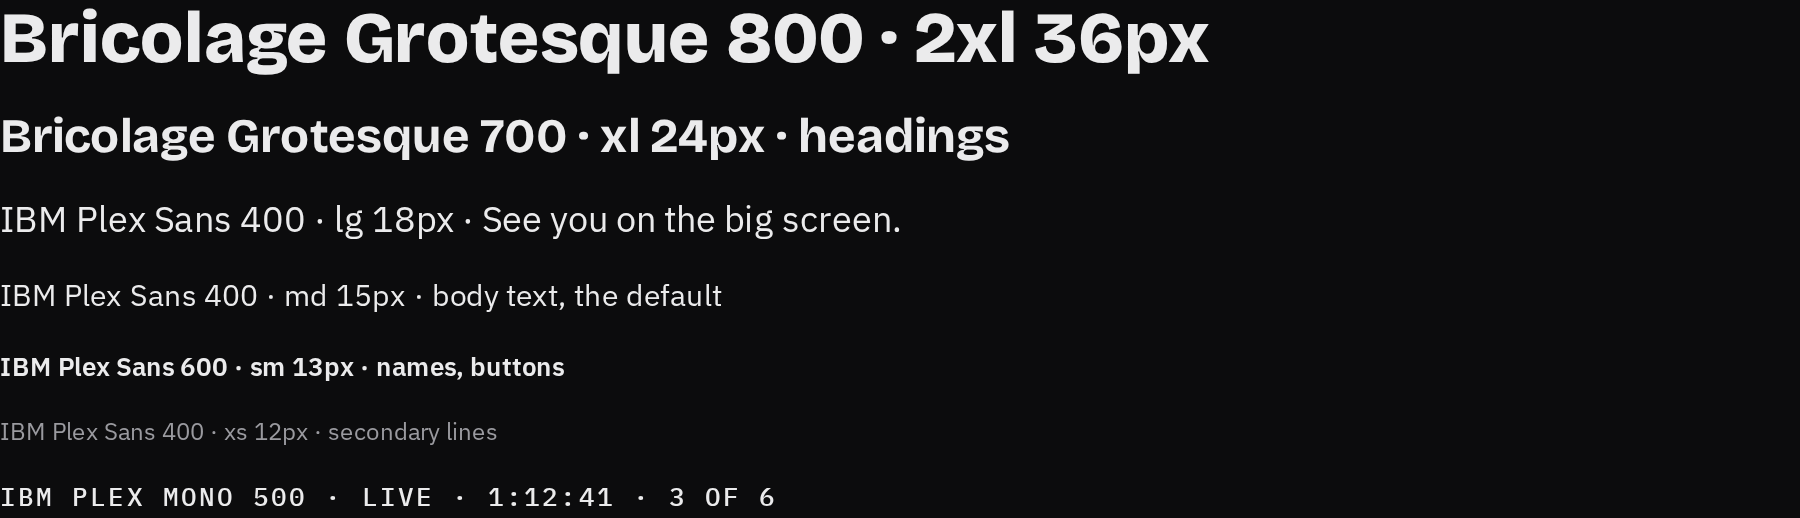
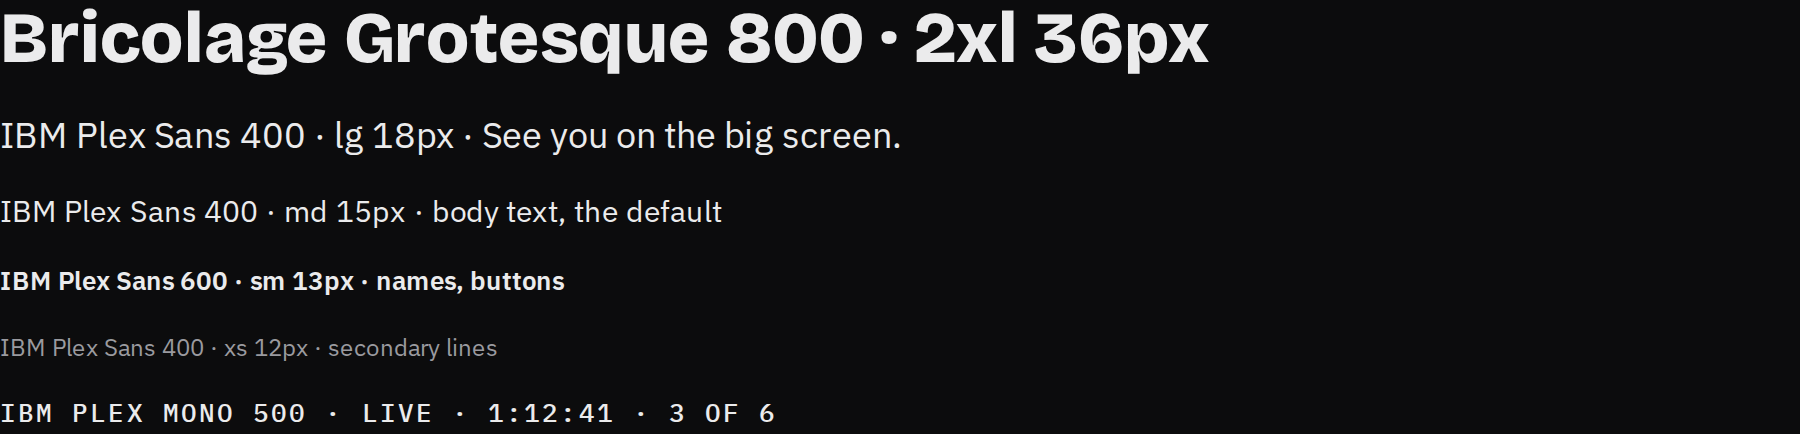
chore(web): no numbers in the app's test titles either, the unused styles check sharper, the type picture retaken (0195)

diff --git a/app/src/shared/components/drop-up/drop-up.component.test.tsx b/app/src/shared/components/drop-up/drop-up.component.test.tsx
@@ -50,7 +50,7 @@ describe("DropUp, the quick-access pill over a live button", () => {
     expect(OPEN_DELAY_MS).toBe(120);
   });
 
-  it("closes at once when the pointer moves on to another live button: one at a time (spec 0133, #128)", () => {
+  it("closes at once when the pointer moves on to another live button: one at a time", () => {
     onDevice();
     render(
       <div>
@@ -76,7 +76,7 @@ describe("DropUp, the quick-access pill over a live button", () => {
     expect(cameraUp).toHaveAttribute("data-open", "true");
   });
 
-  it("keeps open while a tooltip inside it shows, and closes when one outside shows (spec 0133)", () => {
+  it("keeps open while a tooltip inside it shows, and closes when one outside shows", () => {
     onDevice();
     render(
       <div>
@@ -107,7 +107,7 @@ describe("DropUp, the quick-access pill over a live button", () => {
     expect(up).toHaveAttribute("data-open", "false");
   });
 
-  it("opening closes a tooltip showing elsewhere (spec 0133)", () => {
+  it("opening closes a tooltip showing elsewhere", () => {
     onDevice();
     render(
       <div>
@@ -204,7 +204,7 @@ describe("DropUp, the quick-access pill over a live button", () => {
   });
 });
 
-describe("DropUp redirected: another panel shows the setting (spec 0115)", () => {
+describe("DropUp redirected: another panel shows the setting", () => {
   it("resting the mouse calls the redirect after the same pause, and nothing opens", () => {
     onDevice();
     const redirect = vi.fn();

diff --git a/app/src/shared/components/picker/picker.component.test.tsx b/app/src/shared/components/picker/picker.component.test.tsx
@@ -105,7 +105,7 @@ describe("Picker, the app's one-box picker", () => {
   });
 });
 
-describe("Picker: floating over its panel (spec 0111)", () => {
+describe("Picker: floating over its panel", () => {
   /** A panel holding the picker and two controls: one right under its list, one far below. */
   function panel() {
     const user = onFakeClock();
@@ -215,7 +215,7 @@ describe("Picker: floating over its panel (spec 0111)", () => {
   });
 });
 
-describe("Picker: long names and an upward list (spec 0114)", () => {
+describe("Picker: long names and an upward list", () => {
   const LONG = [
     { value: "studio", label: "EMEET STUDIO Virtual Camera" },
     { value: "pixy", label: "EMEET PIXY (328f:00c0)" },
@@ -259,7 +259,7 @@ describe("Picker: long names and an upward list (spec 0114)", () => {
   });
 });
 
-describe("Picker: opened on request (spec 0115)", () => {
+describe("Picker: opened on request", () => {
   it("opens when asked, again each time the request changes", async () => {
     const user = userEvent.setup();
     function Told() {
@@ -291,7 +291,7 @@ describe("Picker: opened on request (spec 0115)", () => {
   });
 });
 
-describe("Picker: cued (spec 0123, design decision 11)", () => {
+describe("Picker: cued", () => {
   it("draws the cue's ring over its list, round the pill and the open list together", () => {
     const { container } = render(
       <Picker label="Camera" options={CAMERAS} value="c920" onChange={() => {}} open cue={1} />,

diff --git a/app/scripts/check-code.ts b/app/scripts/check-code.ts
@@ -20,7 +20,7 @@ export const RULES = {
     "querySelector/closest/getElementById in a component: finding other parts through the page (pass a ref or context)",
   crossCss: "CSS module imported from another folder",
   livekit: "livekit-client imported outside services/",
-  history: "spec, issue or decision number in a comment (history belongs in commits and docs)",
+  history: "spec, issue or decision number in a comment or a test's title (history belongs in commits and docs)",
   mutable: "module-level mutable export (export let/var)",
   structure: "outside the folder structure (routes/ features/ shared/ services/ testing/)",
   naming: "file name not kebab-case with a type suffix",
@@ -237,6 +237,11 @@ export function analyse(r: string, text: string, exists: (path: string) => boole
       add("disable", n, l);
     if (isCode(r) && l.length > MAX_LINE) add("lineLength", n, `${l.length} characters`);
   });
+  // A test's title is history's other hiding place: read as in the tooling, once per line.
+  if (isTest(r) || isStories(r)) {
+    const flagged = new Set(out.filter((f) => f.rule === "history").map((f) => f.line));
+    for (const f of historyInTooling(r, text)) if (!flagged.has(f.line)) out.push(f);
+  }
   return out;
 }
 

diff --git a/app/scripts/check-unused-styles.ts b/app/scripts/check-unused-styles.ts
@@ -20,6 +20,7 @@ const lineOf = (text: string, at: number) => text.slice(0, at).split("\n").lengt
 /** The classes a module defines, each with the line it first appears on. */
 function classesOf(css: string) {
   const clean = withoutComments(css)
+    .replace(/url\([^)]*\)|(["'])(?:\\.|(?!\1)[^\\])*\1/g, (v) => v.replace(/[^\n]/g, " "))
     .replace(/:global\([^)]*\)/g, (g) => g.replace(/[^\n]/g, " "))
     .replace(/\{[^{}]*\}/g, (block) => block.replace(/[^\n]/g, " "));
   const classes = new Map<string, number>();
@@ -45,7 +46,7 @@ function unusedClasses(files: Map<string, string>): StyleFinding[] {
   const reads = new Map<string, Set<string> | "all">();
   for (const [file, code] of files) {
     if (!/\.tsx?$/.test(file)) continue;
-    for (const m of code.matchAll(/import\s+(\w+)\s+from\s+["']([^"']+\.module\.css)["']/g)) {
+    for (const m of code.matchAll(/import\s+(?:\*\s+as\s+)?(\w+)\s+from\s+["']([^"']+\.module\.css)["']/g)) {
       const module = normalize(join(dirname(file), m[2] ?? ""));
       const before = reads.get(module) ?? new Set<string>();
       const now = readsOf(code, m[1] ?? "");

diff --git a/app/scripts/check-code.test.ts b/app/scripts/check-code.test.ts
@@ -47,6 +47,20 @@ describe("the code check", () => {
     expect(rules("shared/utils/long.util.ts", "x\n".repeat(301), ["shared/utils/long.util.test.ts"])).toContain("size");
   });
 
+  it("names history in a test's title in the app, once per line", () => {
+    const titled = rules("shared/utils/g.util.test.ts", 'describe("the dropdown (spec 0104)", () => {});\n', [
+      "shared/utils/g.util.ts",
+    ]);
+    expect(titled.filter((r) => r === "history")).toHaveLength(1);
+    const both = rules("shared/utils/g.util.test.ts", 'it("opens (#187)", () => {}); // see spec 0123\n', [
+      "shared/utils/g.util.ts",
+    ]);
+    expect(both.filter((r) => r === "history")).toHaveLength(1);
+    expect(
+      rules("shared/utils/g.util.test.ts", 'expect(name("spec 0104")).toBe(true);\n', ["shared/utils/g.util.ts"]),
+    ).not.toContain("history");
+  });
+
   it("names history in a comment, LiveKit outside core, and a literal colour in CSS", () => {
     expect(
       rules("features/room/utils/a.util.ts", "// as decided in spec 0123\n", ["features/room/utils/a.util.test.ts"]),

diff --git a/app/scripts/check-unused-styles.test.ts b/app/scripts/check-unused-styles.test.ts
@@ -56,6 +56,15 @@ describe("the unused styles check", () => {
       ).toEqual([]);
     });
 
+    it("reads a namespace import, and never takes a file name in a nested block for a class", () => {
+      expect(
+        found({
+          "g/g.component.tsx": 'import * as styles from "./g.module.css";\nstyles.box;\n',
+          "g/g.module.css": ".box {\n  background: url(./bg.png);\n  &:hover { background: url(./hover.png); }\n}\n",
+        }),
+      ).toEqual([]);
+    });
+
     it("names every class of a module nothing imports", () => {
       expect(found({ "e/e.module.css": ".lost {}\n" })).toEqual(["unusedClass e/e.module.css lost"]);
     });

diff --git a/app/src/shared/components/tooltip/tooltip.component.test.tsx b/app/src/shared/components/tooltip/tooltip.component.test.tsx
@@ -22,7 +22,7 @@ function setup(props: { text?: string | undefined; hidden?: boolean } = {}) {
   return { camera: screen.getByRole("button", { name: "Camera" }), cog: screen.getByRole("button", { name: "Cog" }) };
 }
 
-describe("the app's one tooltip (spec 0133)", () => {
+describe("the app's one tooltip", () => {
   it("shows after a short rest of the mouse, and goes the moment it leaves", () => {
     const { camera } = setup();
     fireEvent.pointerEnter(camera, { pointerType: "mouse" });

diff --git a/app/src/shared/components/dropdown/dropdown.component.test.tsx b/app/src/shared/components/dropdown/dropdown.component.test.tsx
@@ -40,7 +40,7 @@ function Trigger({ name, role = "dialog" }: { name: string; role?: "dialog" | "m
 
 const panel = (name: string) => screen.queryByRole("dialog", { name: `${name} panel` });
 
-describe("dropdown (spec 0104)", () => {
+describe("dropdown", () => {
   it("opens as a named panel of sections, and closes with Escape, the focus back on its button", async () => {
     const user = onFakeClock();
     render(<Trigger name="People" />);

diff --git a/app/src/features/room/components/stage-controls/stage-viewer-bar/stage-viewer-bar.component.test.tsx b/app/src/features/room/components/stage-controls/stage-viewer-bar/stage-viewer-bar.component.test.tsx
@@ -232,7 +232,7 @@ describe("the bar over someone else's stream: me, at the right", () => {
   });
 });
 
-describe("the bar on the floating layer (#187)", () => {
+describe("the bar on the floating layer", () => {
   const sliderOpen = () => screen.getByRole("slider", { name: "Screen sound volume" }).closest("[inert]") === null;
   const restOnSound = () => {
     vi.useFakeTimers();

diff --git a/docs/architecture.md b/docs/architecture.md
@@ -215,7 +215,7 @@ app/src/
 - **Tokens only:** every colour, size, duration, easing, layer and window size comes from `shared/styles/tokens.css`, sizes in rem ([Design sheet](design.md#tokens)); no other CSS file writes a value, `global.css` included. Window and box sizes are `@custom-media` names (`@media (--narrow)`, `@container (--tiny)`): browsers don't read those yet, so PostCSS turns them into plain CSS when Vite builds (`postcss.config.js`; `scripts/container-media.ts` does it for `@container`, which `postcss-custom-media` leaves alone).
 - **Components never find each other through the page** (`querySelector`, labels, `data-*` used as hooks): a ref, a context, or CSS.
 - **No module-level mutable state.** Hooks return stable values; effects only sync with something outside React.
-- **Comments say why**, never history: no issue, spec or decision numbers in the code, nor in the tooling's comments and test titles (`e2e/`, `scripts/`, `.storybook/`).
+- **Comments say why**, never history: no issue, spec or decision numbers in comments or test titles, in the app's code and in the tooling's (`e2e/`, `scripts/`, `.storybook/`).
 - **Functions stay small and plain:**
   - at most 60 lines
   - complexity at most 10
@@ -243,7 +243,7 @@ Every rule a tool can measure runs in the commit checks as `3 · Code checks`, o
 | jscpd | A block of code copied into another place (8 lines or 60 tokens, CSS included) | `npm run check:copies` |
 | knip | Files nothing imports, exports nothing uses | `npm run check:unused` |
 | The unused styles | A CSS module's class no component reads (a module read by a computed key, or handed whole to a helper, counts as read), and a token or custom media in `tokens.css` that no stylesheet, other token or code reads | `npm run check:styles-unused` |
-| The code check | The structure's rules: folders and names, every part in its kind's folder and none inside working code, a test beside every file with logic, units in their own folders with their parts inside them, area folders one level deep, nothing nested past 7 levels, imports through a unit's `index.ts` and never up, across features or into `testing/`, any colour, size, duration, easing, layer or window size written in CSS outside `tokens.css` (zero isn't a value), no DOM queries between components, LiveKit only in `services/`, a component in a `components/` folder of the new structure with no stories, no history in comments (in `e2e/`, `scripts/` and `.storybook/` too, with the tests' titles), lines over 120 characters (Prettier doesn't wrap strings and comments), comments that switch a check off, and the tests' own rules | `npm run check:code -- <folder> --all` |
+| The code check | The structure's rules: folders and names, every part in its kind's folder and none inside working code, a test beside every file with logic, units in their own folders with their parts inside them, area folders one level deep, nothing nested past 7 levels, imports through a unit's `index.ts` and never up, across features or into `testing/`, any colour, size, duration, easing, layer or window size written in CSS outside `tokens.css` (zero isn't a value), no DOM queries between components, LiveKit only in `services/`, a component in a `components/` folder of the new structure with no stories, no history in comments and test titles (in `e2e/`, `scripts/` and `.storybook/` too), lines over 120 characters (Prettier doesn't wrap strings and comments), comments that switch a check off, and the tests' own rules | `npm run check:code -- <folder> --all` |
 | Storybook | Every story in headless Chromium: one that throws, or breaks an accessibility rule (contrast included), fails | `npm run test:storybook` |
 | Prettier | Layout | `npm run format` fixes, `npm run format:check` checks |
 | The size budget | The built JavaScript and styles, compressed, against `checks/size-budget.json` | `npm run build && npm run check:size` |
@@ -258,7 +258,7 @@ Every rule a tool can measure runs in the commit checks as `3 · Code checks`, o
   - a list that allows more than `main`'s
 - **The list only shrinks.** The one exception is the change that adds a rule to the code check: that rule's findings outside the app's folders are recorded once, with no owner yet; the issue that clears them is written on each entry. The guard knows a rule is new because `main`'s code check doesn't define it.
 - **A moved file keeps its entries.** The guard compares with `main`'s list through git's renames, so moving a file isn't a new finding.
-- **A tool that goes quiet fails.** If a tool reports nothing where the list expects findings (a setting lost, its output changed), that's an error, not a clean-up, and it can't be recorded. When a change really clears a tool's last findings, check the tool by hand (run it alone: it finds nothing), then take its entries out of the list by hand and record.
+- **A tool that goes quiet fails.** If a tool reports nothing where the list expects findings (a setting lost, its output changed), that's an error, not a clean-up, and it can't be recorded. When a change really clears a tool's last findings, check the tool by hand (run it alone: it finds nothing), then take its entries out of the list by hand and record. With the list empty, this safety has nothing to watch: a tool that crashes still fails the guard, but one that quietly stops finding things (a setting lost) would pass, so a change to a check's settings shows, in its PR, the check still finding a planted problem.
 - **The tools are pinned** (oxlint, TypeScript, Prettier, knip, jscpd at exact versions). Dependabot proposes their upgrades in a PR of their own (the `checks` group). An upgrade that brings new findings fixes them in that PR, since the list can't grow.
 
 **The size budget.**

diff --git a/CONTRIBUTING.md b/CONTRIBUTING.md
@@ -16,5 +16,5 @@
 - No secrets, server details or personal data in code, config or docs. Settings are environment variables; their values live outside this repo.
 - `docs/` changes in the same pull request as the behaviour it describes; a component added, moved or removed updates [Components](docs/components/README.md).
 - The code follows the [structure and its rules](docs/architecture.md#how-the-code-is-organised) and the [test rules](docs/testing.md#test-rules): one job per file, working code apart from its utils, constants and types, one test file beside every file with logic, a component's states as stories beside it (Storybook), tokens only (every colour, size, timing, layer and window size from `tokens.css`, sizes in rem), and every test with its own data and its own setup, passing alone and in any order, fast.
-- **Nothing new for the checks.** `npm run guard` fails on any finding: its list of known findings is empty, and never grows, except once for a rule a change adds to the code check (its findings outside the app's folders, with the issue that clears them written on each entry).
+- **Nothing new for the checks.** `npm run guard` fails on any finding: its list of known findings is empty, and never grows, except once for a rule a change adds to the code check (its findings outside `routes/`, `features/`, `shared/`, `services/` and `testing/`, with the issue that clears them written on each entry).
 - A red pipeline on `main` is fixed before anything else is merged.
